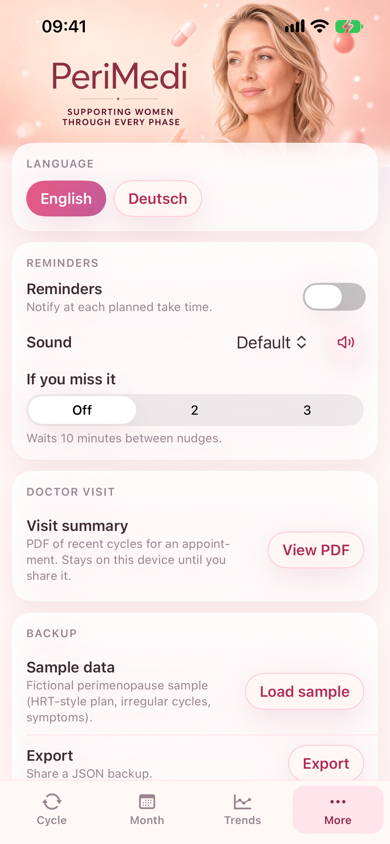
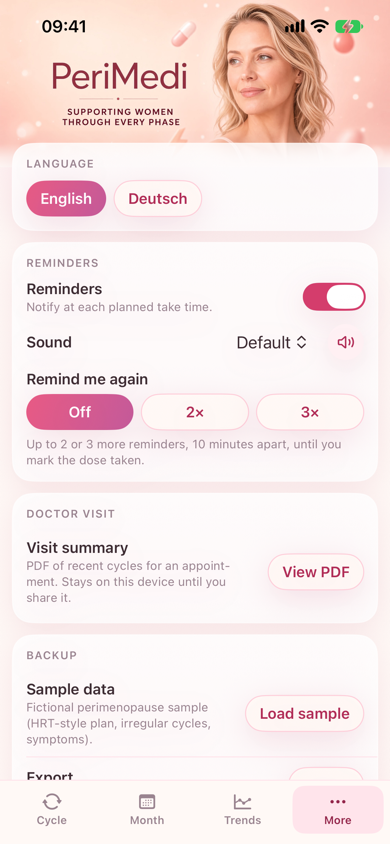
fix(reminders): name the extra reminders on More
The row reads Remind me again, with Off, 2×, and 3× pills. The helper says there are up to 2 or 3 more reminders, 10 minutes apart, until the dose is marked taken. German names the reminders instead of leaving sie without a noun. The row stays on screen, and it is dimmed and disabled while Reminders are off. The catalog writes More in German and at the largest text size.

diff --git a/ios/PeriMedi/Features/More/MoreView.swift b/ios/PeriMedi/Features/More/MoreView.swift
@@ -18,11 +18,31 @@ struct MoreView: View {
     @AppStorage(FollowUpCount.storageKey) private var followUpRaw = FollowUpCount.off.rawValue
     @State private var notifyDenied = false
 
-    private var followUpSelection: Binding<Int> {
-        Binding(
-            get: { FollowUpCount.parsed(followUpRaw).rawValue },
-            set: { followUpRaw = $0 }
-        )
+    private var followUpItems: [EqualWidthPillRow.Item] {
+        let selected = FollowUpCount.parsed(followUpRaw)
+        return [
+            EqualWidthPillRow.Item(
+                id: "off",
+                title: app.t("more.reminderFollowUps.off"),
+                kind: selected == .off ? .primary : .secondary
+            ) {
+                followUpRaw = FollowUpCount.off.rawValue
+            },
+            EqualWidthPillRow.Item(
+                id: "two",
+                title: "2×",
+                kind: selected == .two ? .primary : .secondary
+            ) {
+                followUpRaw = FollowUpCount.two.rawValue
+            },
+            EqualWidthPillRow.Item(
+                id: "three",
+                title: "3×",
+                kind: selected == .three ? .primary : .secondary
+            ) {
+                followUpRaw = FollowUpCount.three.rawValue
+            },
+        ]
     }
 
 
@@ -102,18 +122,15 @@ struct MoreView: View {
                             Text(app.t("more.reminderFollowUps"))
                                 .font(.subheadline.weight(.semibold))
                                 .foregroundStyle(Theme.ink)
-                            Picker("", selection: followUpSelection) {
-                                Text(app.t("more.reminderFollowUps.off")).tag(FollowUpCount.off.rawValue)
-                                Text("2").tag(FollowUpCount.two.rawValue)
-                                Text("3").tag(FollowUpCount.three.rawValue)
-                            }
-                            .pickerStyle(.segmented)
-                            .labelsHidden()
-                            .accessibilityIdentifier(A11yID.moreReminderFollowUps)
+                            EqualWidthPillRow(items: followUpItems)
                             Text(app.t("more.reminderFollowUpsBody"))
                                 .font(.caption)
                                 .foregroundStyle(Theme.inkMuted)
                         }
+                        .opacity(remindersOn ? 1 : 0.4)
+                        .disabled(!remindersOn)
+                        .accessibilityElement(children: .contain)
+                        .accessibilityIdentifier(A11yID.moreReminderFollowUps)
                         if remindersOn, notifyDenied {
                             Text(app.t("more.remindersDenied"))
                                 .font(.caption)

diff --git a/ios/PeriMediUITests/ScreenCatalogTests.swift b/ios/PeriMediUITests/ScreenCatalogTests.swift
@@ -9,6 +9,22 @@ struct ScreenCatalogWriter {
         try captureTrendsFixture()
         try captureTrendsNoScores()
         try captureGermanNewSymptomPill()
+        robot.launch(arguments: [
+            "-en",
+            "-clear",
+            "-uiTesting",
+            "-today=2026-03-15",
+            "-loadSample",
+            "-UIPreferredContentSizeCategoryName",
+            "UICTContentSizeCategoryAccessibilityXXXL",
+        ])
+        robot.tap("tab.more")
+        robot.scrollTo("more.reminderFollowUps")
+        let title = robot.app.staticTexts["Remind me again"]
+        XCTAssertTrue(title.waitForExistence(timeout: 2))
+        XCTAssertTrue(title.isHittable)
+        XCTAssertTrue(robot.element("more.reminderFollowUps").buttons["Off"].isHittable)
+        try write("more-sample-xxxl-en")
 
         let expected = ScreenCatalog.expectedNames
         XCTAssertFalse(expected.isEmpty, "ios/docs/screens/expected.txt")
@@ -112,6 +128,12 @@ struct ScreenCatalogWriter {
         robot.scrollTo("more.sharePdf")
         robot.waitFor(id: "more.sharePdf")
         try write("more-sample-en")
+        robot.tap("more.lang.de")
+        XCTAssertTrue(
+            robot.app.staticTexts["Bis zu 2 oder 3 weitere Erinnerungen im Abstand von 10 Minuten, bis du die Dosis als genommen markierst."].waitForExistence(timeout: 2)
+        )
+        try write("more-sample-de")
+        robot.tap("more.lang.en")
         robot.tap("more.sharePdf")
         robot.waitFor(id: "visit.range")
         robot.waitFor(id: "visit.range.cycle.2026-02-02")

diff --git a/ios/PeriMediUITests/AppProof.swift b/ios/PeriMediUITests/AppProof.swift
@@ -192,19 +192,22 @@ struct AppProof {
         robot.tap("more.lang.de")
         XCTAssertEqual(robot.element("tab.more").label, "Mehr")
         XCTAssertTrue(
-            robot.app.staticTexts["Wartet 10 Minuten zwischen den Hinweisen."].waitForExistence(timeout: 2)
+            robot.app.staticTexts["Bis zu 2 oder 3 weitere Erinnerungen im Abstand von 10 Minuten, bis du die Dosis als genommen markierst."].waitForExistence(timeout: 2)
         )
         robot.tap("more.lang.en")
         XCTAssertEqual(robot.element("tab.more").label, "More")
         XCTAssertTrue(
-            robot.app.staticTexts["Waits 10 minutes between nudges."].waitForExistence(timeout: 2)
+            robot.app.staticTexts["Up to 2 or 3 more reminders, 10 minutes apart, until you mark the dose taken."].waitForExistence(timeout: 2)
         )
         robot.waitFor(id: "more.reminderFollowUps")
         let followUps = robot.element("more.reminderFollowUps")
-        followUps.buttons["2"].tap()
+        followUps.buttons["2×"].tap()
         followUps.buttons["Off"].tap()
         robot.waitFor(id: "more.reminders")
         robot.tap("more.reminders")
+        let off = followUps.buttons["Off"]
+        XCTAssertTrue(off.waitForExistence(timeout: 2))
+        XCTAssertFalse(off.isEnabled)
         robot.waitFor(id: "more.reminderSound")
         robot.tap("more.reminderSoundPreview")
         _ = robot.exists("more.remindersSettings")

diff --git a/ios/PeriMedi/App/L10n.swift b/ios/PeriMedi/App/L10n.swift
@@ -295,9 +295,9 @@ enum L10n {
         "more.remindersSettings": "Settings",
         "more.reminderSound": "Sound",
         "more.reminderSoundPreview": "Play sound",
-        "more.reminderFollowUps": "If you miss it",
+        "more.reminderFollowUps": "Remind me again",
         "more.reminderFollowUps.off": "Off",
-        "more.reminderFollowUpsBody": "Waits 10 minutes between nudges.",
+        "more.reminderFollowUpsBody": "Up to 2 or 3 more reminders, 10 minutes apart, until you mark the dose taken.",
         "reminder.sound.system": "Default",
         "reminder.sound.chime": "Chime",
         "reminder.sound.drop": "Drop",
@@ -557,9 +557,9 @@ enum L10n {
         "more.remindersSettings": "Einstellungen",
         "more.reminderSound": "Ton",
         "more.reminderSoundPreview": "Ton abspielen",
-        "more.reminderFollowUps": "Wenn du sie verpasst",
+        "more.reminderFollowUps": "Nochmal erinnern",
         "more.reminderFollowUps.off": "Aus",
-        "more.reminderFollowUpsBody": "Wartet 10 Minuten zwischen den Hinweisen.",
+        "more.reminderFollowUpsBody": "Bis zu 2 oder 3 weitere Erinnerungen im Abstand von 10 Minuten, bis du die Dosis als genommen markierst.",
         "reminder.sound.system": "Standard",
         "reminder.sound.chime": "Glocke",
         "reminder.sound.drop": "Tropfen",

diff --git a/ios/PeriMedi/App/RootView.swift b/ios/PeriMedi/App/RootView.swift
@@ -153,6 +153,8 @@ struct RootView: View {
         if args.contains("-clear") {
             try? store.clearAll()
             UserDefaults.standard.removeObject(forKey: "perimedi.trends.selected")
+            UserDefaults.standard.removeObject(forKey: DoseReminderCenter.masterKey)
+            UserDefaults.standard.removeObject(forKey: FollowUpCount.storageKey)
         }
         if args.contains("-loadSample") {
             try? store.loadSample()

diff --git a/ios/PeriMediUITests/AppRobot.swift b/ios/PeriMediUITests/AppRobot.swift
@@ -165,7 +165,7 @@ final class AppRobot {
         case "more.reminders", "visit.range.previous":
             return [.switch]
         case "more.reminderFollowUps":
-            return [.segmentedControl, .other, .button]
+            return [.other, .button]
         case "trends.detail", "trends.screen":
             return [.other]
         case "cycle.chip.period", "cycle.pager.label", "trends.status", "trends.empty",

diff --git a/AGENTS.md b/AGENTS.md
@@ -58,7 +58,7 @@ The product UI proof is one command. Run it after feature work instead of pickin
 .grok/skills/verify-perimedi/scripts/control-perimedi verify
 ```
 
-It sources `ios/env.sh`, checks feature-map IDs, checks feature layout, checks L10n layout, checks domain boundary, checks OpenSpec sync, checks the App Store listing, fails UI-test coverage if a feature-map surface is uncovered, runs domain tests, starts `xcodebuild build-for-testing` for `generic/platform=iOS Simulator` while it shuts the simulator down, turns the hardware keyboard off and boots, then runs `xcodebuild test-without-building` on the booted iPhone 17e with `-resultBundlePath`. Every `xcodebuild` call from this driver, including `build-for-testing` and `drive`, passes `-collect-test-diagnostics never`. While that command runs, the driver kills a stray `simctl diagnose` for the simulator. It does not fall back to a second full `xcodebuild test`. If that generic product lacks `group.app.perimedi.ios` on the app and the widget, it rebuilds `build-for-testing` for the booted UDID and does not install the unsigned-group product. It checks the screen catalog files exist (no pixel compare), then uninstalls again on success. Locally that test run writes the sixteen English files in `ios/docs/screens/` unless `SCREEN_CATALOG=0`. On GitHub it skips `ScreenCatalogTests` (committed PNGs; `ids` already checks they exist). The English widget journey runs on GitHub and rewrites its two pictures on every run. Device is **iPhone 17e** only. Do not fall back to another iPhone. Unset `SIM_DEVICE` is fine. `SIM_DEVICE` set to anything other than `iPhone 17e` fails. `SIM_OS` still selects the runtime (e.g. `27.0`). `SIM_UDID` is allowed only when that simulator is named iPhone 17e. The `ui` job runs on the `xcode-27` image with Xcode 27.0 and iPhone 17e on iOS 27.0. The `domain` job stays on `macos-26` with Xcode 26.6. It needs macOS + Xcode; anywhere else it still runs the ID, layout, domain-boundary, OpenSpec-sync, and coverage checks, then exits. Before it boots the Simulator, it turns Connect Hardware Keyboard off for that UDID so `typeText` hits the software keyboard (the phone path). On GitHub CI, verify skips the status-bar override and does not uninstall leftover PeriMedi before the tests. It still uninstalls after a successful run. Locally, an occupied 17e whose lock is not this suite run is refused.
+It sources `ios/env.sh`, checks feature-map IDs, checks feature layout, checks L10n layout, checks domain boundary, checks OpenSpec sync, checks the App Store listing, fails UI-test coverage if a feature-map surface is uncovered, runs domain tests, starts `xcodebuild build-for-testing` for `generic/platform=iOS Simulator` while it shuts the simulator down, turns the hardware keyboard off and boots, then runs `xcodebuild test-without-building` on the booted iPhone 17e with `-resultBundlePath`. Every `xcodebuild` call from this driver, including `build-for-testing` and `drive`, passes `-collect-test-diagnostics never`. While that command runs, the driver kills a stray `simctl diagnose` for the simulator. It does not fall back to a second full `xcodebuild test`. If that generic product lacks `group.app.perimedi.ios` on the app and the widget, it rebuilds `build-for-testing` for the booted UDID and does not install the unsigned-group product. It checks the screen catalog files exist (no pixel compare), then uninstalls again on success. Locally that test run writes the seventeen English files, including `more-sample-xxxl-en.png`, plus `sheet-symptom-pill-de.png` and `more-sample-de.png`, in `ios/docs/screens/` unless `SCREEN_CATALOG=0`. On GitHub it skips `ScreenCatalogTests` (committed PNGs; `ids` already checks they exist). The English widget journey runs on GitHub and rewrites its two pictures on every run. Device is **iPhone 17e** only. Do not fall back to another iPhone. Unset `SIM_DEVICE` is fine. `SIM_DEVICE` set to anything other than `iPhone 17e` fails. `SIM_OS` still selects the runtime (e.g. `27.0`). `SIM_UDID` is allowed only when that simulator is named iPhone 17e. The `ui` job runs on the `xcode-27` image with Xcode 27.0 and iPhone 17e on iOS 27.0. The `domain` job stays on `macos-26` with Xcode 26.6. It needs macOS + Xcode; anywhere else it still runs the ID, layout, domain-boundary, OpenSpec-sync, and coverage checks, then exits. Before it boots the Simulator, it turns Connect Hardware Keyboard off for that UDID so `typeText` hits the software keyboard (the phone path). On GitHub CI, verify skips the status-bar override and does not uninstall leftover PeriMedi before the tests. It still uninstalls after a successful run. Locally, an occupied 17e whose lock is not this suite run is refused.
 
 It also runs `python3 ios/scripts/check-one-way-door.py --base origin/main`. That check warns and exits 0.
 
@@ -131,7 +131,7 @@ bash docs/app-store/capture-store-shots.sh 6.3
 python3 .github/scripts/test_main_is_red.py
 ```
 
-The required UI suite is two English XCTest methods. `testEnglishAppJourney` is one process for empty home, empty Trends, period edit and delete, the period logged again, meds, the in-app reminder (including snooze), Month, and More. On More it taps German until the More tab reads Mehr, then taps English until it reads More. It then uses a `.trendsChart` launch for the chart and the custom symptom, then `.trendsNoScores`. `testEnglishWidgetJourney` is one process: medium widget, then small, without a new app launch. Both run on GitHub. The app journey pins today to `2026-03-15`. The widget pins today to the device date. They tap real controls. `clearAndType` waits for the software keyboard, sends the whole string in one `typeText` (or one delete string, then one retype), refocuses once if the value is still wrong, and asserts the exact value. Do not paste, type one character per `typeText`, use the clipboard menu, or test-only setters. Journey tests never pass `-journeyStep` or `-loadSample`. `ScreenCatalogTests.testWriteScreenCatalog` may pass `-loadSample` and writes the sixteen English names in a few launches (not one launch per PNG). It may switch to German only to write `sheet-symptom-pill-de.png`. `StoreScreenshotTests.testWriteStoreScreenshots` runs only when `STORE_SHOTS=1`. It is not part of `verify`. The 6.9" App Store Connect slot is `docs/app-store/screenshots/en/` and `docs/app-store/screenshots/de/` at 1320×2868 or 1290×2796, captured on iPhone 18 Pro Max. The 6.1" and 6.3" slot is `docs/app-store/screenshots-6.3/en/` and `docs/app-store/screenshots-6.3/de/` at 1206×2622, captured on iPhone 17 Pro. Both use the same six frames, the same order, and today pinned to 2026-03-15. Upload order is the filename numbers. Before any listing edit, run `python3 docs/app-store/check-listing.py`. Regenerate the 6.9" set with `bash docs/app-store/capture-store-shots.sh`. Regenerate the 6.1" and 6.3" set with `bash docs/app-store/capture-store-shots.sh 6.3`. CI skips rewriting those catalog PNGs; the `ids` job still fails if a committed file is missing. The widget journey rewrites `widget-medium-before-en.png` and `widget-medium-after-en.png` on every run. Local `verify` writes the catalog unless `SCREEN_CATALOG=0`. Watch **iPhone 17e** in Simulator when that device exists (Window → iPhone 17e).
+The required UI suite is two English XCTest methods. `testEnglishAppJourney` is one process for empty home, empty Trends, period edit and delete, the period logged again, meds, the in-app reminder (including snooze), Month, and More. On More it taps German until the More tab reads Mehr, then taps English until it reads More. It then uses a `.trendsChart` launch for the chart and the custom symptom, then `.trendsNoScores`. `testEnglishWidgetJourney` is one process: medium widget, then small, without a new app launch. Both run on GitHub. The app journey pins today to `2026-03-15`. The widget pins today to the device date. They tap real controls. `clearAndType` waits for the software keyboard, sends the whole string in one `typeText` (or one delete string, then one retype), refocuses once if the value is still wrong, and asserts the exact value. Do not paste, type one character per `typeText`, use the clipboard menu, or test-only setters. Journey tests never pass `-journeyStep` or `-loadSample`. `ScreenCatalogTests.testWriteScreenCatalog` may pass `-loadSample` and writes the seventeen English names, including `more-sample-xxxl-en.png`, in a few launches (not one launch per PNG). It switches to German to write `sheet-symptom-pill-de.png` and `more-sample-de.png`. `StoreScreenshotTests.testWriteStoreScreenshots` runs only when `STORE_SHOTS=1`. It is not part of `verify`. The 6.9" App Store Connect slot is `docs/app-store/screenshots/en/` and `docs/app-store/screenshots/de/` at 1320×2868 or 1290×2796, captured on iPhone 18 Pro Max. The 6.1" and 6.3" slot is `docs/app-store/screenshots-6.3/en/` and `docs/app-store/screenshots-6.3/de/` at 1206×2622, captured on iPhone 17 Pro. Both use the same six frames, the same order, and today pinned to 2026-03-15. Upload order is the filename numbers. Before any listing edit, run `python3 docs/app-store/check-listing.py`. Regenerate the 6.9" set with `bash docs/app-store/capture-store-shots.sh`. Regenerate the 6.1" and 6.3" set with `bash docs/app-store/capture-store-shots.sh 6.3`. CI skips rewriting those catalog PNGs; the `ids` job still fails if a committed file is missing. The widget journey rewrites `widget-medium-before-en.png` and `widget-medium-after-en.png` on every run. Local `verify` writes the catalog unless `SCREEN_CATALOG=0`. Watch **iPhone 17e** in Simulator when that device exists (Window → iPhone 17e).
 
 Main-screen pictures for UX are `ios/docs/screens/` (written by `ScreenCatalogTests` on a local `verify`). `JourneyScript` / `ios/scripts/shot-journey.sh` remain optional extra capture. They are not the interaction proof.
 

diff --git a/openspec/specs/ios-ui-tests/spec.md b/openspec/specs/ios-ui-tests/spec.md
@@ -2,7 +2,7 @@
 
 ## Purpose
 
-Prove that a person can perform PeriMedi’s real-world jobs on iOS by driving the real controls from a cleared store and asserting UI elements and resulting state. The required suite is one English app journey and one English widget journey. The app journey is the empty-to-tracking first session, then settings, a due dose reminder, and Trends once several cycles exist. The widget journey changes size in the same process and runs in continuous integration. Screenshots are failure evidence and a committed English UX catalog, plus one German picture of the New symptom control, not the pass/fail oracle. German product chrome is covered by the string-table check rather than a second Simulator pass.
+Prove that a person can perform PeriMedi’s real-world jobs on iOS by driving the real controls from a cleared store and asserting UI elements and resulting state. The required suite is one English app journey and one English widget journey. The app journey is the empty-to-tracking first session, then settings, a due dose reminder, and Trends once several cycles exist. The widget journey changes size in the same process and runs in continuous integration. Screenshots are failure evidence and a committed English UX catalog, plus German pictures of the New symptom control and of More, not the pass/fail oracle. German product chrome is covered by the string-table check rather than a second Simulator pass.
 
 ## Requirements
 
@@ -130,7 +130,7 @@ A failed instrumented step SHALL retain a screenshot (or equivalent visual attac
 - **THEN** the instrumented suite still passes
 
 ### Requirement: Committed catalog of main screens
-A dedicated catalog capture SHALL write a small committed catalog of English Simulator pictures of the main destinations: Cycle empty, Cycle with data, Trends empty, Trends with data, Month, and More, plus the medication, period, and symptom sheets. The only German catalog picture SHALL be one picture of the New symptom control reading Neues Symptom. The capture SHALL navigate the English destinations in a small number of English launches (tabs and Cycle sheet actions) rather than launching once per picture. It MAY switch to German only long enough to write that one picture, then return to English, and SHALL NOT switch language for any other catalog picture. Sample data and Trends fixtures MAY seed catalog pictures; they SHALL NOT be the first-use proof. Verification SHALL fail if an expected catalog picture is missing from the committed files, including that German picture and the two medium-widget pictures taken around Take. Verification SHALL NOT fail because pixels differ from a previous capture. Visual review SHALL use those committed pictures (the pull-request file diff), not a gallery of images pasted into pull-request comments. Continuous integration MAY skip rewriting the catalog pictures. The English widget journey SHALL rewrite those two medium pictures on every run, including continuous integration. Verification SHALL still fail when a committed catalog file is missing, and it SHALL still run the English widget journey.
+A dedicated catalog capture SHALL write a small committed catalog of English Simulator pictures of the main destinations: Cycle empty, Cycle with data, Trends empty, Trends with data, Month, and More, plus the medication, period, and symptom sheets. German catalog pictures SHALL be the New symptom control reading Neues Symptom and More in German. The capture SHALL navigate the English destinations in a small number of English launches (tabs and Cycle sheet actions) rather than launching once per picture. It MAY switch to German only long enough to write those two pictures, then return to English, and SHALL NOT switch language for any other catalog picture. The largest-text More picture SHALL be an expected catalog file written by that same capture. Sample data and Trends fixtures MAY seed catalog pictures; they SHALL NOT be the first-use proof. Verification SHALL fail if an expected catalog picture is missing from the committed files, including those German pictures, the largest-text More picture, and the two medium-widget pictures taken around Take. Verification SHALL NOT fail because pixels differ from a previous capture. Visual review SHALL use those committed pictures (the pull-request file diff), not a gallery of images pasted into pull-request comments. Continuous integration MAY skip rewriting the catalog pictures. The English widget journey SHALL rewrite those two medium pictures on every run, including continuous integration. Verification SHALL still fail when a committed catalog file is missing, and it SHALL still run the English widget journey.
 
 #### Scenario: Missing catalog picture fails
 - **WHEN** an expected catalog picture is not present in the committed catalog
@@ -142,7 +142,7 @@ A dedicated catalog capture SHALL write a small committed catalog of English Sim
 
 #### Scenario: Catalog capture is one English empty session
 - **WHEN** the catalog capture writes English pictures of empty Cycle, empty Trends, and the add sheets
-- **THEN** those pictures come from navigating one empty-store English session, not from a separate app launch for each file, and the only catalog picture that switches to German is the New symptom control reading Neues Symptom
+- **THEN** those pictures come from navigating one empty-store English session, not from a separate app launch for each file. The same capture also writes More in German and the largest-text More picture. The German catalog pictures are the New symptom control reading Neues Symptom and More
 
 ### Requirement: Visit share control is identifiable
 The More visit PDF action SHALL expose a language-independent accessibility identifier. The English app journey SHALL wait for that control. Catalog pictures of More SHALL include the visit entry. Verification SHALL NOT paste screenshot galleries into pull-request comments.

diff --git a/.grok/skills/verify-perimedi/features/more.md b/.grok/skills/verify-perimedi/features/more.md
@@ -7,7 +7,7 @@ Settings: language, reminders, doctor-visit PDF, backup, privacy policy link.
 - Language (en / de) — `more.lang.en` / `more.lang.de`
 - Master reminders toggle
 - Reminder sound picker + preview (`more.reminderSoundPreview`)
-- Extra reminders Off / 2 / 3 (`more.reminderFollowUps`), visible with the master switch off. Default Off. Helper says it waits 10 minutes between nudges.
+- Extra reminders Off / 2× / 3× (`more.reminderFollowUps`). Three pills. Default Off. Title is Remind me again (German: Nochmal erinnern). Helper: up to 2 or 3 more reminders, 10 minutes apart, until the dose is marked taken. The row stays visible. While the master switch is off, the row is dimmed and disabled.
 - Doctor visit PDF — View PDF opens a cycle picker, then an in-app preview (see [doctor-visit.md](doctor-visit.md))
 - Backup: sample, export, import, clear (see [backup.md](backup.md))
 - Denied-notifications settings row (`more.remindersSettings`)
@@ -23,17 +23,17 @@ Bottom bar → More.
 |---|---|---|
 | More tab | `tab.more` | Exists on launch. |
 | English language pill | `more.lang.en` | `testEnglishAppJourney` taps it after German. `tab.more` reads `More` again. |
-| German language pill | `more.lang.de` | Same journey taps it and `tab.more` reads `Mehr`, then switches back. The rest of the German catalog stays the l10n table check. |
+| German language pill | `more.lang.de` | Same journey taps it and `tab.more` reads `Mehr`, then switches back. Catalog also writes `more-sample-de.png`. |
 | Reminders master switch | `more.reminders` | Toggle. On by default (`DoseReminderCenter.masterKey`). `testEnglishAppJourney` waits for it and taps it after both doses are taken. |
 | Reminder sound menu | `more.reminderSound` | Picker. `testEnglishAppJourney` waits for it after toggling reminders. |
 | Reminder sound preview | `more.reminderSoundPreview` | Speaker button. Journey taps it. |
-| Extra reminders | `more.reminderFollowUps` | Segmented control. Stays on screen when the master switch is off. `testEnglishAppJourney` asserts the German helper while German is selected, then the English helper, waits for this id, selects 2, then selects Off. |
+| Extra reminders | `more.reminderFollowUps` | Pill row (Off, 2×, 3×) on a container. Stays on screen when the master switch is off, dimmed and disabled so it does not accept a change. `testEnglishAppJourney` asserts the German helper while German is selected, then the English helper, waits for this id, taps 2×, then Off. After the master switch goes off, the Off pill is disabled. |
 | Open Settings (denied) | `more.remindersSettings` | Only visible when `notifyDenied`. Journey includes the ID string so coverage sees it; does not tap (opens iOS Settings). |
 | Privacy Policy | `more.privacyPolicy` | Opens the published privacy page in Safari. `testEnglishAppJourney` waits for it; does not tap (leaves the app). |
 | Share visit PDF | `more.sharePdf` | See [doctor-visit.md](doctor-visit.md). |
 | Backup rows | `more.sample` / `more.export` / `more.import` / `more.clear` | See [backup.md](backup.md). |
 
-`RequiredJourneyTests.testEnglishAppJourney` is the More path, after both doses are taken: `tab.more`, tap `more.lang.de` until `tab.more` reads Mehr, assert the German extra-reminder helper is on screen, tap `more.lang.en` until it reads More, assert the English helper, wait for `more.reminderFollowUps`, select 2, select Off, wait/tap `more.reminders`, wait for `more.reminderSound`, tap `more.reminderSoundPreview`, wait for `more.sharePdf`, tap it through range Continue to the preview, wait `visit.pdf.share`, close, wait for `more.privacyPolicy` and backup row IDs, tap `more.sample` then `confirm.cancel`. Do not tap export, import, clear, the privacy link, or the preview Share button. Do not present the system permission dialog. The other German nav strings stay `check-l10n-layout.py`.
+`RequiredJourneyTests.testEnglishAppJourney` is the More path, after both doses are taken: `tab.more`, tap `more.lang.de` until `tab.more` reads Mehr, assert the German extra-reminder helper is on screen, tap `more.lang.en` until it reads More, assert the English helper, wait for `more.reminderFollowUps`, tap 2×, tap Off, wait/tap `more.reminders` (that turns the default-on switch off), assert the Off pill is disabled, wait for `more.reminderSound`, tap `more.reminderSoundPreview`, wait for `more.sharePdf`, tap it through range Continue to the preview, wait `visit.pdf.share`, close, wait for `more.privacyPolicy` and backup row IDs, tap `more.sample` then `confirm.cancel`. Do not tap export, import, clear, the privacy link, or the preview Share button. Do not present the system permission dialog. The other German nav strings stay `check-l10n-layout.py`.
 
 Language pills call `LocaleController`. Preference is `AppStorage` `perimedi.locale`. Default German if device preferred languages include German. The required journey forces English with `-en` and does not switch. The whole More tab box is tappable, not only the ellipsis or the word More.
 

diff --git a/ios/docs/screens.md b/ios/docs/screens.md
@@ -1,11 +1,11 @@
 # Screen catalog
 
-Main-screen Simulator PNGs live in `screens/`. `expected.txt` lists sixteen English catalog names, `sheet-symptom-pill-de.png`, and the two widget pictures. `ScreenCatalogTests` writes the sixteen English names by navigating a few sessions (empty, sample, Trends fixture, no-scores), not one app launch per file. It switches to German only to write `sheet-symptom-pill-de.png`. The widget journey rewrites `widget-medium-before-en.png` and `widget-medium-after-en.png` on every run, including `drive` and GitHub. Commit the PNGs. UX reviews the **image diff in Files changed**. CI does not rewrite the catalog pictures. It only fails if a committed file is missing. Skip the catalog writer locally with `SCREEN_CATALOG=0`.
+Main-screen Simulator PNGs live in `screens/`. `expected.txt` lists seventeen English catalog names, including the largest-text More picture `more-sample-xxxl-en.png`, plus the German pictures `sheet-symptom-pill-de.png` and `more-sample-de.png`, and the two widget pictures. `ScreenCatalogTests` writes those English names by navigating a few sessions (empty, sample, Trends fixture, no-scores, and one largest-text More launch), not one app launch per file. It switches to German to write `sheet-symptom-pill-de.png` and `more-sample-de.png`. The widget journey rewrites `widget-medium-before-en.png` and `widget-medium-after-en.png` on every run, including `drive` and GitHub. Commit the PNGs. UX reviews the **image diff in Files changed**. CI does not rewrite the catalog pictures. It only fails if a committed file is missing. Skip the catalog writer locally with `SCREEN_CATALOG=0`.
 
 `ios/docs/copy-review/` holds one-off #44 German before/after copy shots, is not in `expected.txt`, is not checked by `check-screen-catalog.py`, and may be deleted after merge.
 
 Do **not** paste screenshot galleries into PR comments. Do **not** use a per-PR dump (`pr-41-simulator` or any pull-request id in the path).
 
-English catalog pictures: Cycle empty, Cycle with data, Trends empty, Trends with data, Trends Choose Symptoms sheet, Trends dot tap, Trends dose-tick sentence, Trends no-scores, Month, More, visit cycle picker, in-app visit PDF preview, add-medication sheet, period sheet, symptom sheet, and the symptom sheet with a wrapped custom name. The one German catalog picture is the New symptom pill (`sheet-symptom-pill-de.png`). The widget pictures are the medium card before and after Take. Names are `{screen}-{state}-{locale}.png` (see `screens/expected.txt`). Do not keep old chip-cloud layout shots.
+English catalog pictures: Cycle empty, Cycle with data, Trends empty, Trends with data, Trends Choose Symptoms sheet, Trends dot tap, Trends dose-tick sentence, Trends no-scores, Month, More, More at the largest text size, visit cycle picker, in-app visit PDF preview, add-medication sheet, period sheet, symptom sheet, and the symptom sheet with a wrapped custom name. The German catalog pictures are the New symptom pill (`sheet-symptom-pill-de.png`) and More (`more-sample-de.png`). The widget pictures are the medium card before and after Take. Names are `{screen}-{state}-{locale}.png` (see `screens/expected.txt`). Do not keep old chip-cloud layout shots.
 
 CI fails only if an expected file is **missing**. Pixel drift does not fail the suite. After a layout change, run `.grok/skills/verify-perimedi/scripts/control-perimedi verify` and commit any updated PNGs.

diff --git a/openspec/specs/dose-reminders/spec.md b/openspec/specs/dose-reminders/spec.md
@@ -79,7 +79,11 @@ The system SHALL ask for notification permission on first launch when the master
 - **THEN** More shows a short explanation pointing to iOS Settings and does not prompt again on launch
 
 ### Requirement: Opt-in extra reminders
-The system SHALL let the user choose Off, 2, or 3 extra reminders for a missed planned dose. The default SHALL be Off. The choice SHALL stay on this device and SHALL NOT be part of the backup. The control SHALL stay visible when the master reminders switch is off, and it SHALL have no effect until that switch is on and notification permission allows scheduling. Each extra reminder SHALL use the same title, medication name, body, Taken action, and Snooze action as the planned reminder. The body SHALL still name the planned take time. Extra reminder k SHALL fire at the planned time plus k times 10 minutes. The system SHALL omit a step whose time is already past and SHALL NOT move later steps earlier. The system SHALL NOT schedule more than the chosen count, and SHALL NOT schedule another extra after that count. At most the four soonest pending slots that are not stopped and still have a future extra reminder SHALL receive every remaining step. Other pending slots SHALL receive only the planned reminder. When 2 or 3 is selected and more planned reminders are pending than fit alongside those extras, the later planned reminders are not scheduled. Off SHALL schedule the same planned reminders as before this choice existed, one per pending slot.
+The system SHALL let the user choose Off, 2, or 3 extra reminders for a missed planned dose. The default SHALL be Off. The choice SHALL stay on this device and SHALL NOT be part of the backup. The control SHALL stay visible when the master reminders switch is off. While that switch is off, the control SHALL be dimmed and SHALL NOT accept a change. It SHALL have no effect until that switch is on and notification permission allows scheduling. Each extra reminder SHALL use the same title, medication name, body, Taken action, and Snooze action as the planned reminder. The body SHALL still name the planned take time. Extra reminder k SHALL fire at the planned time plus k times 10 minutes. The system SHALL omit a step whose time is already past and SHALL NOT move later steps earlier. The system SHALL NOT schedule more than the chosen count, and SHALL NOT schedule another extra after that count. At most the four soonest pending slots that are not stopped and still have a future extra reminder SHALL receive every remaining step. Other pending slots SHALL receive only the planned reminder. When 2 or 3 is selected and more planned reminders are pending than fit alongside those extras, the later planned reminders are not scheduled. Off SHALL schedule the same planned reminders as before this choice existed, one per pending slot.
+
+#### Scenario: Master switch off
+- **WHEN** the master reminders switch is off
+- **THEN** the extra-reminder control stays visible, is dimmed, and does not accept a change
 
 #### Scenario: Off
 - **WHEN** the user leaves extra reminders Off

diff --git a/.grok/skills/verify-perimedi/features/reminders.md b/.grok/skills/verify-perimedi/features/reminders.md
@@ -6,7 +6,7 @@ In-app banner for a pending slot, plus the More master switch.
 
 - Banner with title, medication name, dose/time body, Taken / Snooze
 - Master toggle and sound on More
-- Extra reminders Off / 2 / 3 on More (`more.reminderFollowUps`). Default Off. The helper says the wait is 10 minutes. Proof is the English journey on More, not a system banner. Off leaves one planned reminder plus manual Snooze. 2 or 3 plants that many follow-ups. Taken, Snooze, or a slot that is no longer pending stops them. The chain does not continue after Snooze fires and does not pass the chosen count. Denied permission adds no other alert. `-remindIn` does not plant the chain.
+- Extra reminders Off / 2× / 3× on More (`more.reminderFollowUps`). Default Off. Title is Remind me again. The helper says up to 2 or 3 more reminders, 10 minutes apart, until the dose is marked taken. The row stays visible. While the master switch is off it is dimmed and disabled. Proof is the English journey on More, not a system banner. Off leaves one planned reminder plus manual Snooze. 2 or 3 plants that many follow-ups. Taken, Snooze, or a slot that is no longer pending stops them. The chain does not continue after Snooze fires and does not pass the chosen count. Denied permission adds no other alert. `-remindIn` does not plant the chain.
 - Per-medication remind toggle on the medication sheet
 
 ## How to get to it (user POV)
@@ -21,7 +21,7 @@ Turn reminders on in More. Enable remind on a medication. When a slot is due, a 
 | Taken | `reminder.taken` | Primary action on the right. Banner gone; `cycle.lane.{slug}.status` becomes `taken`. The English journey takes estrogen, then progesterone, before Month. |
 | Snooze | `reminder.snooze` | Left of Taken. Banner dismisses without taking. The English journey taps it between the untake and the second estrogen take. |
 | More master | `more.reminders` | See [more.md](more.md). |
-| Extra reminders | `more.reminderFollowUps` | Segmented Off / 2 / 3 on the Reminders card. See [more.md](more.md). `testEnglishAppJourney` waits for it, selects 2, then Off. It does not open the system permission dialog. |
+| Extra reminders | `more.reminderFollowUps` | Pills Off / 2× / 3× on the Reminders card. See [more.md](more.md). `testEnglishAppJourney` waits for it, taps 2×, then Off. After the master switch goes off, the Off pill is disabled. It does not open the system permission dialog. |
 | Per-med remind | `med.remind` | On [medication-sheet.md](medication-sheet.md). |
 
 `JourneyLaunch.pinnedRemindIn(seconds: 2)` fires the next pending slot in-process on `testEnglishAppJourney`. Save estrogen first so a lane exists with `not-taken`, then wait for the banner. Do not launch a second process for the reminder.
